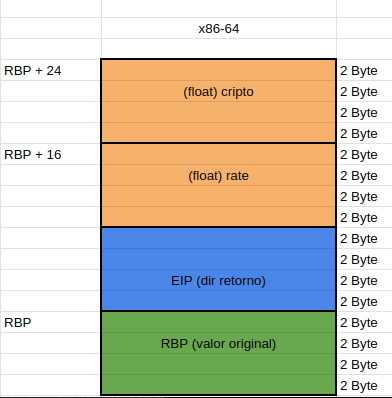
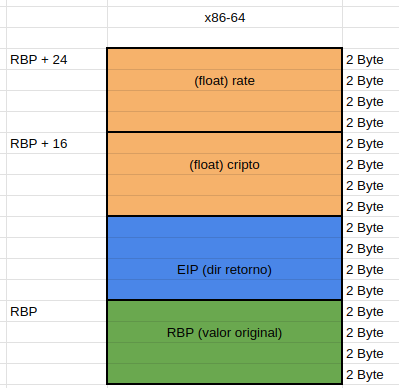
cambio imagen del stackframe

diff --git a/README.md b/README.md
@@ -1,5 +1,5 @@
-# lab2_cripto_pricing
-Repositorio para el laboratorio n°2 de la asignatura "Sistemas de Computación" de la FCEFyN , Universidad Naconal de Córdoba, Argentina. <br>
+# Cripto pricing calculator
+Repositorio para el laboratorio n°2 de la asignatura **"Sistemas de Computación"** de la FCEFyN , Universidad Naconal de Córdoba, Argentina. <br>
 Grupo de trabajo: Internautas  <br>
 Abril, 2023 <br>
 Integrantes: 
@@ -51,4 +51,8 @@ Podemos intuir como se vería nuestra **stackframe** :
 
 ![](https://github.com/francoriba/lab2_cripto_pricing/blob/x86-64-mejoras/img/stack.png)
 
-Podemos observar como el ```stackframe``` esta conformado los dos parametros del tipo float (ocupando 4Bytes c/u) que ocupan las posiciones ```RBP+24``` (precio en USD de alguna criptomoneda) y ```RBP+16``` (precio de un USD expresado en unidades de alguna moneda fiduciaria). Finalmente se referencia la direccion de retorno```RBP+8``` y el valor original de registro RBP que fue stackeado y es apuntado por el mismo ```RBP```. <rb>
+Podemos observar como el ```stackframe``` esta conformado los dos parametros del tipo float (ocupando 4Bytes c/u) que ocupan las posiciones ```RBP+24``` (precio en USD de alguna criptomoneda) y ```RBP+16``` (precio de un USD expresado en unidades de alguna moneda fiduciaria). Finalmente se referencia la direccion de retorno```RBP+8``` y el valor original de registro RBP que fue stackeado y es apuntado por el mismo ```RBP```. <rb> 
+
+
+
+
